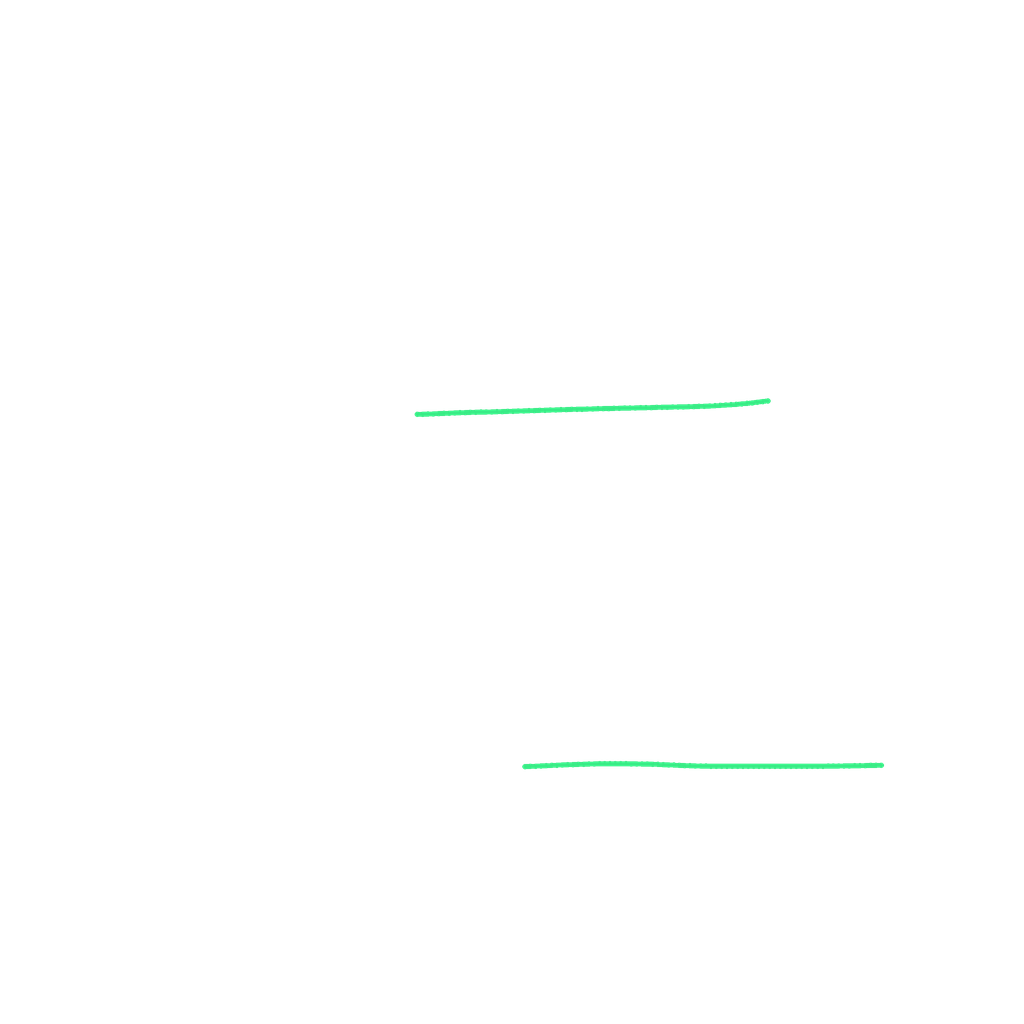
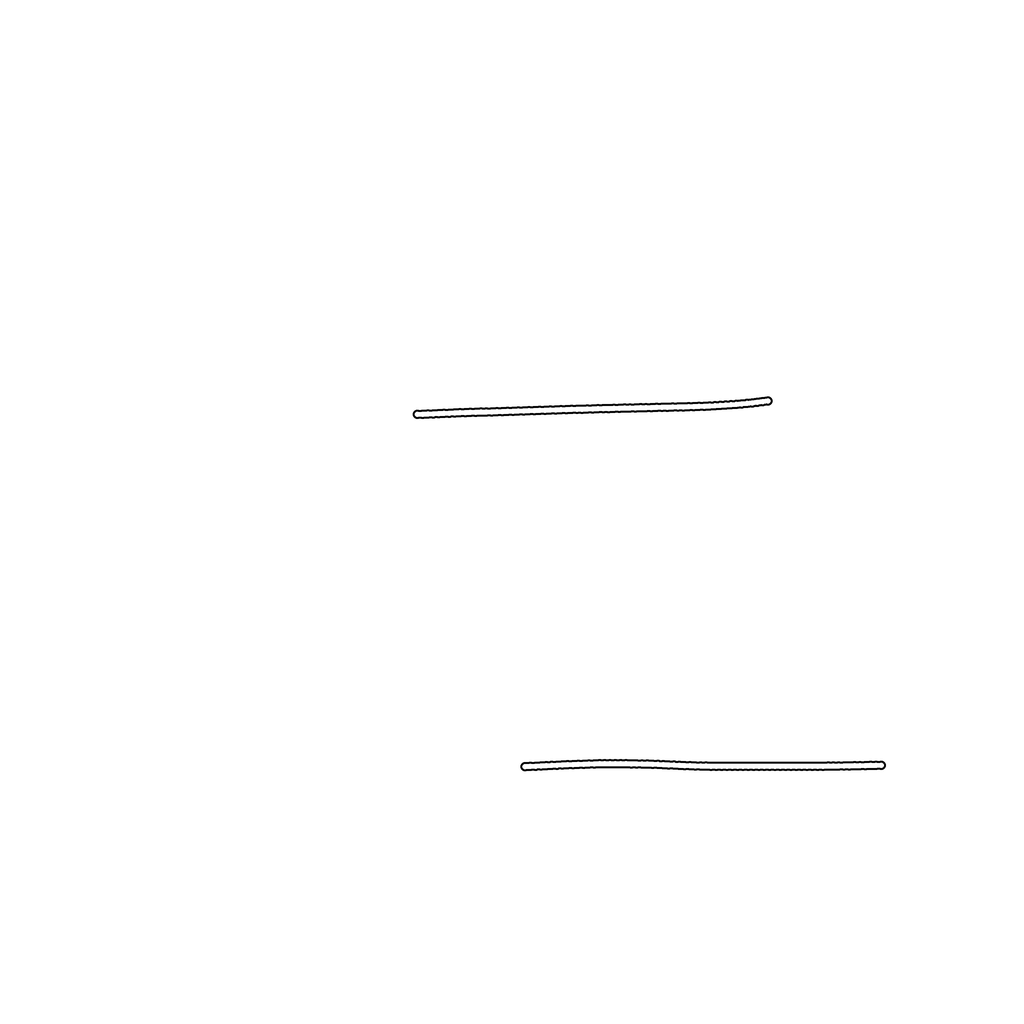
[Feat] DRS 오버레이와 섹터 색상 구분 개선
- DRS를 초록색에서 검정 테두리가 있는 흰색 선으로 변경
- Android·iOS 공용 트랙 이미지와 생성 스크립트에 적용
- DRS 색상 검증 추가 및 전체 23개 서킷 검증

Changed region(s): [[0.5, 0.7188, 0.875, 0.75], [0.4062, 0.375, 0.75, 0.4062]]

diff --git a/tools/generate_mobile_tracks.py b/tools/generate_mobile_tracks.py
@@ -8,6 +8,10 @@ from PIL import Image, ImageDraw
 ROOT = Path(__file__).resolve().parents[1]
 OUT = ROOT / 'mobile-assets/tracks'
 SIZE, PAD, AA = 1024, 0.08, 3
+# Achromatic DRS stays distinct from red/cyan/yellow sectors. The black casing
+# provides >3:1 contrast against every sector; white remains visible on dark track.
+DRS_COLOR, DRS_OUTLINE = '#FFFFFF', '#000000'
+DRS_WIDTH, DRS_OUTLINE_WIDTH = 5, 9
 
 def write(path, value):
     path.write_text(json.dumps(value, indent=2, ensure_ascii=False) + '\n')
@@ -47,7 +51,12 @@ def generate(entry):
         return range(a,b+1)
     render('track.png',[(range(n+1),'#465363',22),(range(n+1),'#DCE4EE',16)])
     render('sectors.png',[(indices(s['startWaypoint'],s['endWaypoint']),s['colorHex'],10) for s in detail['sectors']])
-    render('drs.png',[(indices(s['startWaypoint'],s['endWaypoint']),'#38EB85',5) for s in detail['drsZones']])
+    # Draw all casings first so overlapping zones cannot cover another white core.
+    render('drs.png', [
+        (indices(s['startWaypoint'], s['endWaypoint']), color, width)
+        for color, width in ((DRS_OUTLINE, DRS_OUTLINE_WIDTH), (DRS_COLOR, DRS_WIDTH))
+        for s in detail['drsZones']
+    ])
     path={'schemaVersion':1,'circuitId':cid,'width':SIZE,'height':SIZE,'closedLoop':True,
           'progressBasis':'normalized 3D polyline arc length; same traversal order as XR',
           'projection':{'xAxis':'gltf +X','yAxis':'gltf +Z','rotationDegrees':0,'padding':PAD,'scale':scale,'centerX':(minx+maxx)/2,'centerZ':(minz+maxz)/2},

diff --git a/tools/validate_mobile_tracks.py b/tools/validate_mobile_tracks.py
@@ -47,6 +47,11 @@ for entry in manifest['circuits']:
   im=Image.open(assets/entry[name]); assert im.size==(1024,1024) and im.mode=='RGBA'
   assert im.getpixel((0,0))[3]==0
   if name=='drs' and not p['drsZones']: assert im.getchannel('A').getbbox() is None
+  if name=='drs' and p['drsZones']:
+   colors=set(im.getdata())
+   assert (255,255,255,255) in colors,(cid,'missing white DRS core')
+   assert (0,0,0,255) in colors,(cid,'missing black DRS casing')
+   assert (56,235,133,255) not in colors,(cid,'stale green DRS overlay')
   ranges=range(n) if name!='drs' else [i%n for z in p['drsZones'] for i in range(z['startWaypoint'],z['endWaypoint']+(n if z['endWaypoint']<=z['startWaypoint'] else 0)+1)]
   for i in ranges:
    q=pts[i]; assert im.getpixel((round(q['x']*1024),round(q['y']*1024)))[3]>200,(cid,name,i)
